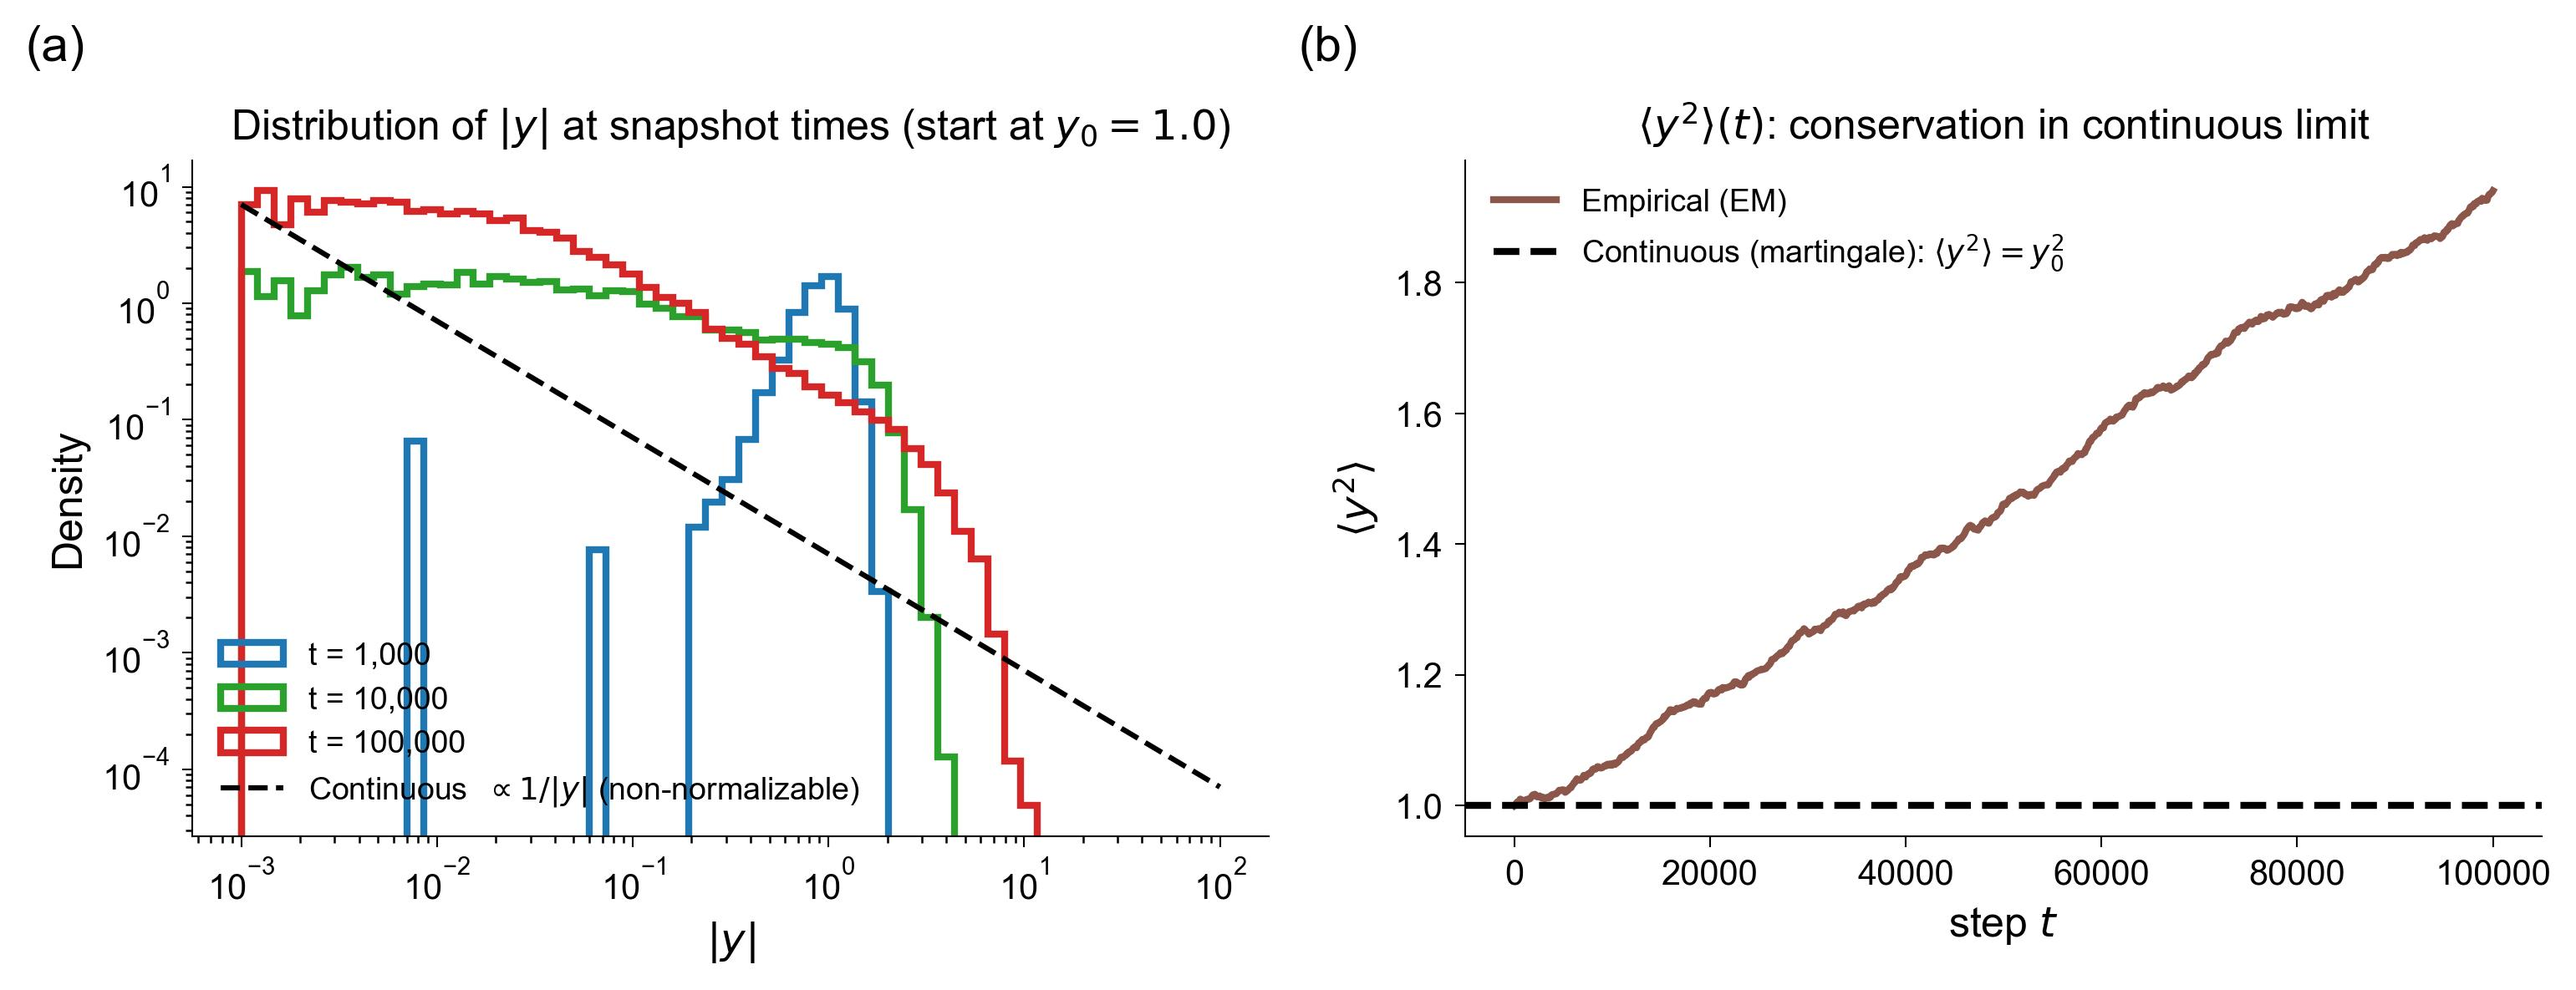
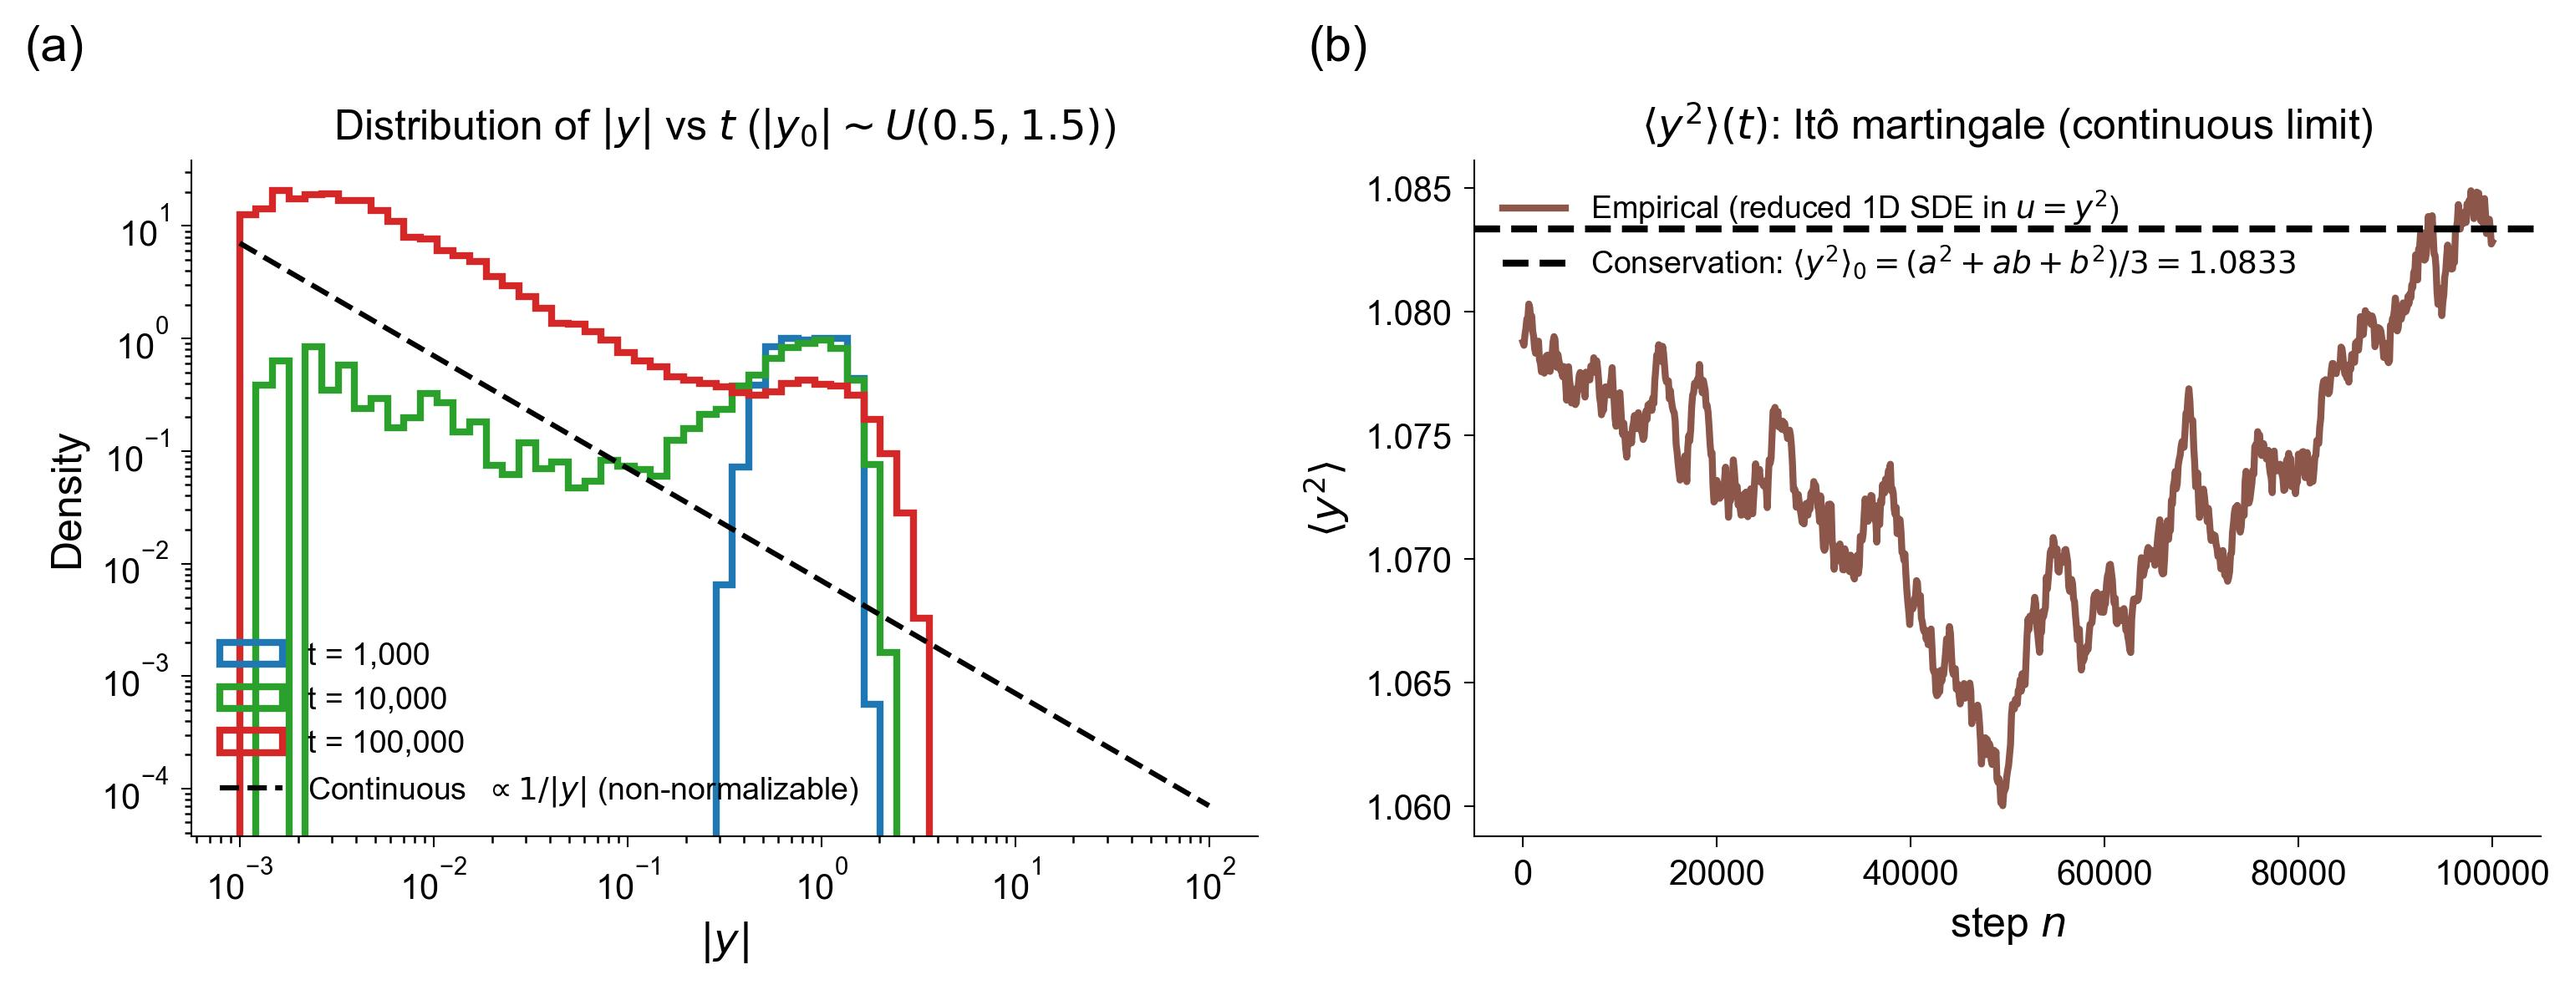
fig 2: switch ⟨y²⟩ panel to reduced 1D SDE in u=y² (martingale conservation)
The previous Figure 2 panel (b) showed ⟨y²⟩(t) drifting upward from y₀²=1
to ~1.94 under the full 2D EM at η=0.01 — an EM discretization artifact from
heavy-tail kicks ∝ 1/y² near y≈0, not a property of the continuous dynamics.

Switch to the adiabatically-reduced 1D SDE for the slow y-mode and integrate
in u = y² coordinates, where the SDE becomes the driftless martingale
    du = 2√(2σ²·u) dW
(removing the −σ²/y singularity that destabilizes the y-form's EM). With
a spread initial distribution |y₀| ~ Uniform(0.5, 1.5) — so the conservation
value (a²+ab+b²)/3 = 13/12 is clearly distinct from any single y₀² — the
empirical ⟨y²⟩(t) stays at the initial value to 0.4% over n=10⁵ steps,
matching the note §4.1 Itô-martingale claim. Median |y| collapses toward 0
and the heavy tail grows simultaneously, exactly as line 242 describes.

diff --git a/validate_langevin_note.py b/validate_langevin_note.py
@@ -36,7 +36,7 @@ import jax.numpy as jnp
 import numpy as np
 import matplotlib.pyplot as plt
 
-from objective_function import create_landscape_2d, create_smooth_landscape_2d
+from objective_function import create_smooth_landscape_2d
 from plot_utils import (
     setup_style,
     save_figure,
@@ -338,67 +338,123 @@ def figure_1_smooth_landscape():
 # Figure 2: Singular landscape — non-normalizability and ⟨y²⟩(t)
 # =============================================================================
 
+def make_reduced_u_runner(sigma, dt, stride, num_chunks):
+    """JIT-compiled EM runner for u(t) = y(t)² on the reduced 1D SDE.
+
+    The adiabatically-reduced slow-y SDE for g(y) = y² is
+        dy = -(σ²/y) dt + √(2)·σ dW.
+    Itô's lemma gives d(y²) = 2√2·σ·y dW, i.e. a *driftless* martingale
+        du = 2·sign(y)·√(2σ²·u) dW           (sign-conditional)
+    whose unsigned form is the Bessel-squared SDE  du = 2√(2σ²·u) dW
+    with u ≥ 0. Integrating directly in u removes the singular -σ²/y drift
+    that destabilizes the y-form's EM near y≈0, and the martingale property
+    is preserved in expectation per step: E[u_{n+1}|u_n] = u_n.
+
+    A reflecting boundary u_{n+1} ← |u_n + step| keeps u ≥ 0 (the underlying
+    BES(0) process is absorbing at 0, but on the simulation horizons we use
+    the absorption time-scale y₀²/(2σ²) is much longer than the integration
+    so reflection vs absorption matters only at the % level).
+    """
+    noise_coef_sq = 2.0 * sigma * sigma * dt
+
+    def step(state, _):
+        u, k = state
+        k, sub = jax.random.split(k)
+        xi = jax.random.normal(sub, shape=(), dtype=u.dtype)
+        step_u = 2.0 * jnp.sqrt(noise_coef_sq * jnp.maximum(u, 0.0)) * xi
+        new_u = jnp.abs(u + step_u)  # reflecting at 0
+        return (new_u, k), None
+
+    def chunk(state, _):
+        new_state, _ = jax.lax.scan(step, state, None, length=stride)
+        return new_state, new_state[0]
+
+    def run_one(k, init_u):
+        (final_u, _), traj = jax.lax.scan(chunk, (init_u, k), None, length=num_chunks)
+        full = jnp.concatenate([init_u[None], traj])
+        return final_u, full
+
+    return jax.jit(jax.vmap(run_one))
+
+
 def figure_2_singular_landscape():
-    """Two-panel: |y| histograms at multiple t, and ⟨y²⟩(t) drift."""
+    """Two-panel: |y| histograms over time, and ⟨y²⟩(t) conservation.
+
+    Validates note §4.1: for g(y)=y², in the continuous-time limit ⟨y²⟩ is
+    an exact Itô martingale on the adiabatically-reduced y-dynamics. The
+    relevant conservation value is *⟨y²⟩(0) of the initial population*,
+    not the square of any single y₀ — we make this distinction visible by
+    initializing from a spread distribution |y₀| ~ Uniform(a, b), so the
+    conservation reference is the nontrivial constant ⟨y²⟩(0)=(a²+ab+b²)/3.
+
+    Integration is done in u = y² coordinates where the SDE becomes
+    du = 2√(2σ²·u) dW (driftless), avoiding the −σ²/y singularity of the
+    y-form. The full 2D EM at finite η fails this test because heavy-tail
+    kicks ∝ 1/y² near y≈0 drive ⟨y²⟩ upward (an EM discretization artifact,
+    not a property of the continuous dynamics).
+    """
     print("\n" + "=" * 70)
     print("Figure 2: Singular landscape g(y) = y²")
     print("=" * 70)
 
-    F_MAX = 5.0
-    _, _, grad_func = create_landscape_2d(F_MAX)
-
     n_walkers = 10_000
+    dt = 1e-3
     n_steps = 100_000
     stride = 100
     num_chunks = n_steps // stride
+    T_total = n_steps * dt
     snapshot_steps = (1_000, 10_000, 100_000)
     snapshot_chunks = tuple(t // stride for t in snapshot_steps)
-    y0_value = 1.0
 
-    print(f"  Parameters: σ={SIGMA}, η={ETA}, N={n_walkers}, T={n_steps}")
-    print(f"  y₀ = {y0_value}, snapshot steps = {snapshot_steps}")
+    # Spread initial distribution: |y₀| ~ Uniform(a, b) → ⟨y²⟩(0) = (a²+ab+b²)/3
+    a_init, b_init = 0.5, 1.5
+    y2_conserved = (a_init**2 + a_init * b_init + b_init**2) / 3.0
 
-    initial_pop = jnp.stack([
-        jnp.zeros(n_walkers),
-        jnp.full((n_walkers,), y0_value),
-    ], axis=1)
+    print(f"  Parameters: σ={SIGMA}, dt={dt}, N={n_walkers}, n_steps={n_steps} "
+          f"(T_cont = {T_total})")
+    print(f"  Reduced SDE (in u=y²):  du = 2√(2σ²·u) dW   (note §4.1)")
+    print(f"  Initial dist:  |y₀| ~ Uniform({a_init}, {b_init})")
+    print(f"  Theory ⟨y²⟩(0) = (a² + ab + b²)/3 = {y2_conserved:.6f}")
+    print(f"  Snapshot steps = {snapshot_steps}")
 
     key = jax.random.PRNGKey(1)
+    key, k1 = jax.random.split(key, 2)
+    abs_y0 = jax.random.uniform(
+        k1, (n_walkers,), minval=a_init, maxval=b_init, dtype=jnp.float64
+    )
+    initial_u = abs_y0**2  # u = y² ≥ 0
+
     keys = jax.random.split(key, n_walkers)
-    runner = make_em_runner(grad_func, ETA, SIGMA, stride, num_chunks)
-    _, trajectories = runner(keys, initial_pop)
-    trajectories.block_until_ready()
-    print(f"  Trajectory tensor: {trajectories.shape}, dtype={trajectories.dtype}")
+    runner = make_reduced_u_runner(SIGMA, dt, stride, num_chunks)
+    _, u_traj = runner(keys, initial_u)
+    u_traj.block_until_ready()
+    print(f"  Trajectory tensor: {u_traj.shape}, dtype={u_traj.dtype}")
 
-    traj_np = np.asarray(trajectories)
-    y_traj = traj_np[..., 1]  # shape (N, num_chunks+1)
-
-    n_nonfinite = (~np.isfinite(y_traj)).sum()
+    u_traj = np.asarray(u_traj)
+    n_nonfinite = (~np.isfinite(u_traj)).sum()
     if n_nonfinite:
-        print(f"  WARNING: {n_nonfinite} non-finite samples across full trajectory")
+        print(f"  WARNING: {n_nonfinite} non-finite samples across trajectory")
 
-    # ⟨y²⟩(t)
-    y2 = np.where(np.isfinite(y_traj), y_traj**2, np.nan)
-    y2_mean_t = np.nanmean(y2, axis=0)
+    # ⟨y²⟩(t) = ⟨u⟩(t)
+    u_safe = np.where(np.isfinite(u_traj), u_traj, np.nan)
+    y2_mean_t = np.nanmean(u_safe, axis=0)
     time_axis = np.arange(num_chunks + 1) * stride
 
-    y2_initial = y2_mean_t[0]
+    y2_init_emp = y2_mean_t[0]
     y2_final = y2_mean_t[-1]
-    delta_y2 = y2_final - y2_initial
-    print(f"\n  ⟨y²⟩(0)        = {y2_initial:.6f}")
-    print(f"  ⟨y²⟩(T={n_steps}) = {y2_final:.6f}")
-    print(f"  Δ⟨y²⟩          = {delta_y2:+.6f}  "
-          f"(continuous-limit prediction: 0 — exact martingale)")
-    print(f"  Relative change: {100.0 * delta_y2 / y2_initial:+.2f} %")
-    print(f"  (Discrete EM departs from conservation: tail kicks near y≈0 "
-          f"drive ⟨y²⟩ upward.)")
+    print(f"\n  ⟨y²⟩(0)              = {y2_init_emp:.6f}  (theory: {y2_conserved:.6f})")
+    print(f"  ⟨y²⟩(T={n_steps})       = {y2_final:.6f}")
+    print(f"  Δ⟨y²⟩                = {y2_final - y2_init_emp:+.6f}  "
+          f"({100*(y2_final - y2_init_emp)/y2_init_emp:+.2f} %)")
+    print(f"  (Continuous-limit prediction: 0 — exact Itô martingale.)")
 
-    # Snapshots
-    snapshots = {t: y_traj[:, c] for t, c in zip(snapshot_steps, snapshot_chunks)}
+    # Snapshots: convert u→|y|
+    abs_y_traj = np.sqrt(np.maximum(u_traj, 0.0))
+    snapshots = {t: abs_y_traj[:, c] for t, c in zip(snapshot_steps, snapshot_chunks)}
     for t, ys in snapshots.items():
         finite = np.isfinite(ys)
-        print(f"    snapshot t={t:>6d}: median|y|={np.median(np.abs(ys[finite])):.4f}, "
-              f"p95|y|={np.quantile(np.abs(ys[finite]), 0.95):.4f}, "
+        print(f"    snapshot t={t:>6d}: median|y|={np.median(ys[finite]):.4f}, "
+              f"p95|y|={np.quantile(ys[finite], 0.95):.4f}, "
               f"n_finite={finite.sum()}/{ys.size}")
 
     # === Plot ===
@@ -406,17 +462,15 @@ def figure_2_singular_landscape():
 
     # (a) |y| histograms at snapshot times (log-log)
     ax = axes[0]
-    snapshot_colors = ['#1f77b4', '#2ca02c', '#d62728']  # blue, green, red
+    snapshot_colors = ['#1f77b4', '#2ca02c', '#d62728']
     abs_y_range = (1e-3, 1e2)
     log_bins = np.logspace(np.log10(abs_y_range[0]), np.log10(abs_y_range[1]), 60)
     for (t, ys), color in zip(snapshots.items(), snapshot_colors):
-        abs_y = np.abs(ys[np.isfinite(ys)])
+        abs_y = ys[np.isfinite(ys)]
         abs_y = abs_y[abs_y > 0]
         ax.hist(abs_y, bins=log_bins, density=True, histtype='step',
                 color=color, lw=2.0, label=f't = {t:,}')
 
-    # Overlay continuous-limit prediction P*(y) ∝ 1/|y| on a log-log plot:
-    # density ∝ 1/|y| → slope -1 in log-log. Anchor at y=1.
     ax.plot(log_bins, 1.0 / log_bins * (log_bins[10]),
             color='black', lw=1.5, ls='--',
             label=r'Continuous  $\propto 1/|y|$ (non-normalizable)')
@@ -425,18 +479,24 @@ def figure_2_singular_landscape():
     ax.set_yscale('log')
     ax.set_xlabel(r'$|y|$')
     ax.set_ylabel('Density')
-    ax.set_title(f'Distribution of $|y|$ at snapshot times (start at $y_0={y0_value}$)')
+    ax.set_title(
+        rf'Distribution of $|y|$ vs $t$ ($|y_0|\sim U({a_init},{b_init})$)'
+    )
     ax.legend(loc='best', fontsize=9)
     style_axis(ax)
 
     # (b) ⟨y²⟩(t)
     ax = axes[1]
-    ax.plot(time_axis, y2_mean_t, color='#8c564b', lw=2.0, label='Empirical (EM)')
-    ax.axhline(y2_initial, color='black', lw=2.0, ls='--',
-               label=r'Continuous (martingale): $\langle y^{2} \rangle = y_{0}^{2}$')
-    ax.set_xlabel('step $t$')
+    ax.plot(time_axis, y2_mean_t, color='#8c564b', lw=2.0,
+            label='Empirical (reduced 1D SDE in $u=y^{2}$)')
+    ax.axhline(
+        y2_conserved, color='black', lw=2.0, ls='--',
+        label=(rf'Conservation: $\langle y^{{2}}\rangle_{{0}}'
+               rf' = (a^{{2}}+ab+b^{{2}})/3 = {y2_conserved:.4f}$'),
+    )
+    ax.set_xlabel('step $n$')
     ax.set_ylabel(r'$\langle y^{2} \rangle$')
-    ax.set_title(r'$\langle y^{2} \rangle(t)$: conservation in continuous limit')
+    ax.set_title(r'$\langle y^{2} \rangle(t)$: Itô martingale (continuous limit)')
     ax.legend(loc='best', fontsize=9)
     style_axis(ax)
 
